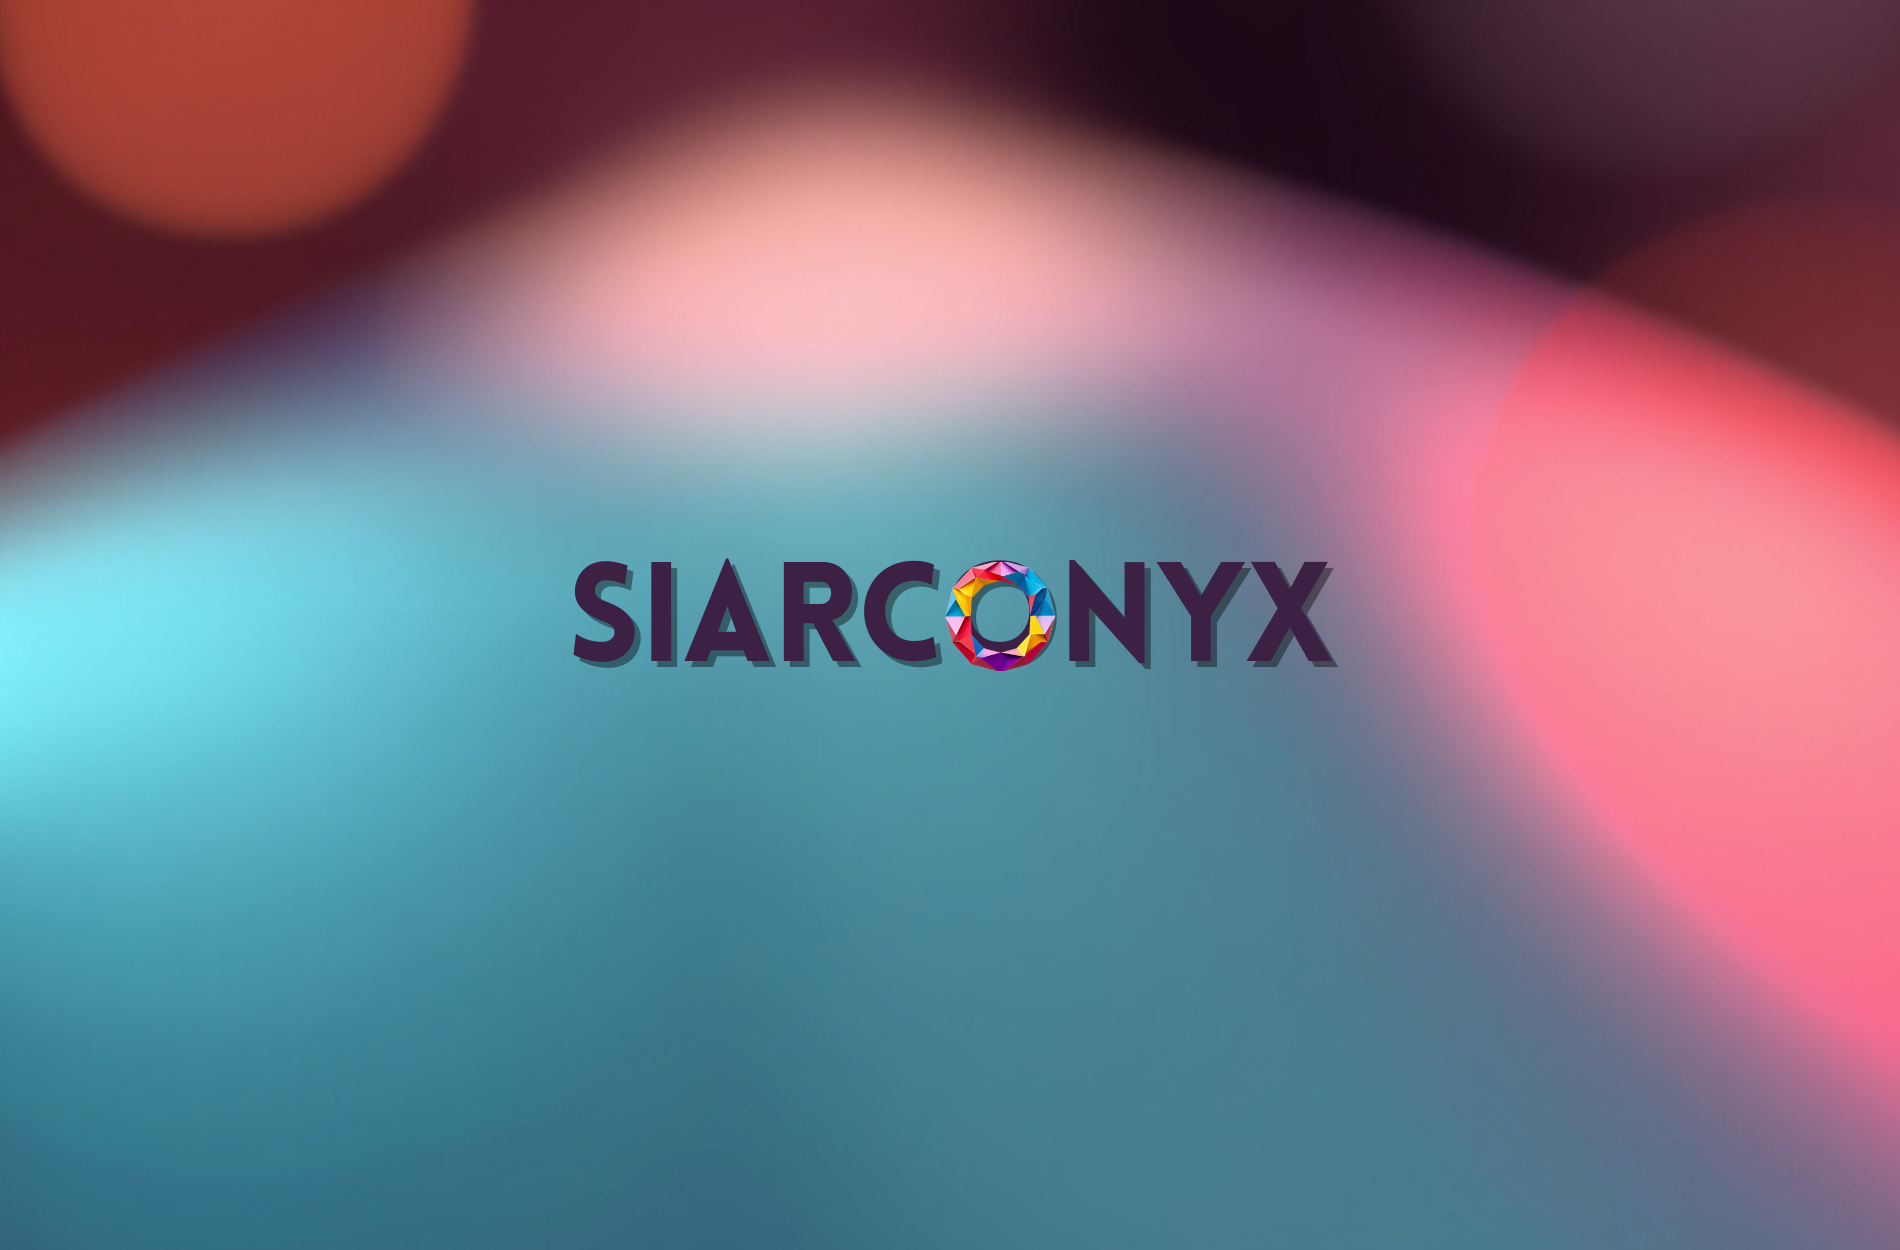
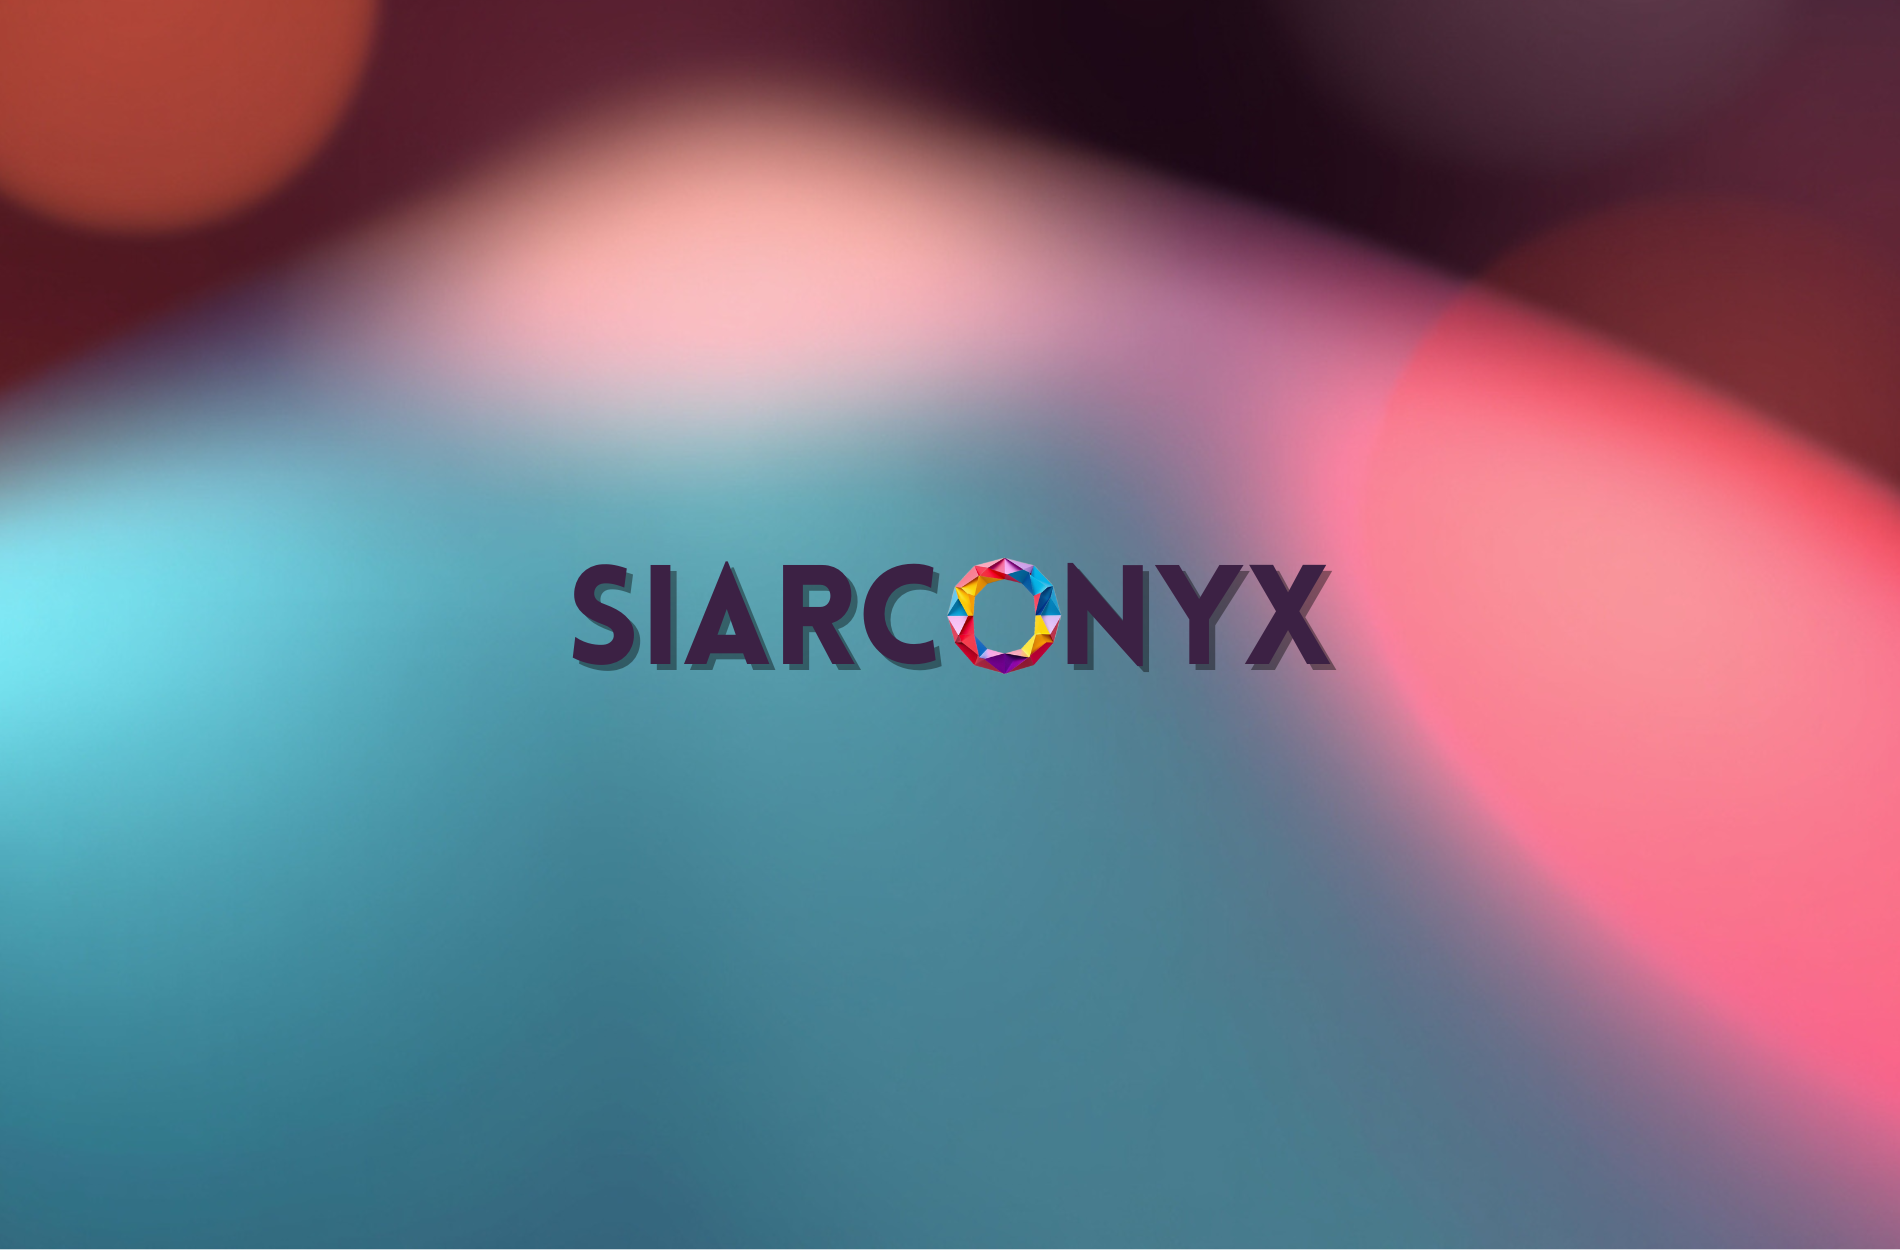
site update

Changed region(s): [[0.0, 0.0, 1.0, 1.0], [0.0, 0.0, 0.4037, 0.468], [0.6832, 0.0, 0.7763, 0.0936]]

diff --git a/assets/css/agency.scss b/assets/css/agency.scss
@@ -17,6 +17,9 @@
 {% endif %}
 
 // Custom colors
+//#3c2144 purple
+//#2dbcda blue
+
 $primary: {{ site.data.style.highlight | default: "#2dbcda" }} !default;
 $white: {{ site.data.style.white | default: "#fff" }} !default;
 $black: {{ site.data.style.black | default: "#000" }} !default;

diff --git a/_includes/nav.html b/_includes/nav.html
@@ -2,7 +2,7 @@
 <nav
   class="navbar navbar-expand-lg navbar-dark fixed-top"
   id="mainNav"
-  style="background-color: #262639"
+  style="background-color: #3c2144"
 >
   <div class="container">
     <a class="navbar-brand js-scroll-trigger" href="{{ site.baseurl }}/#">
